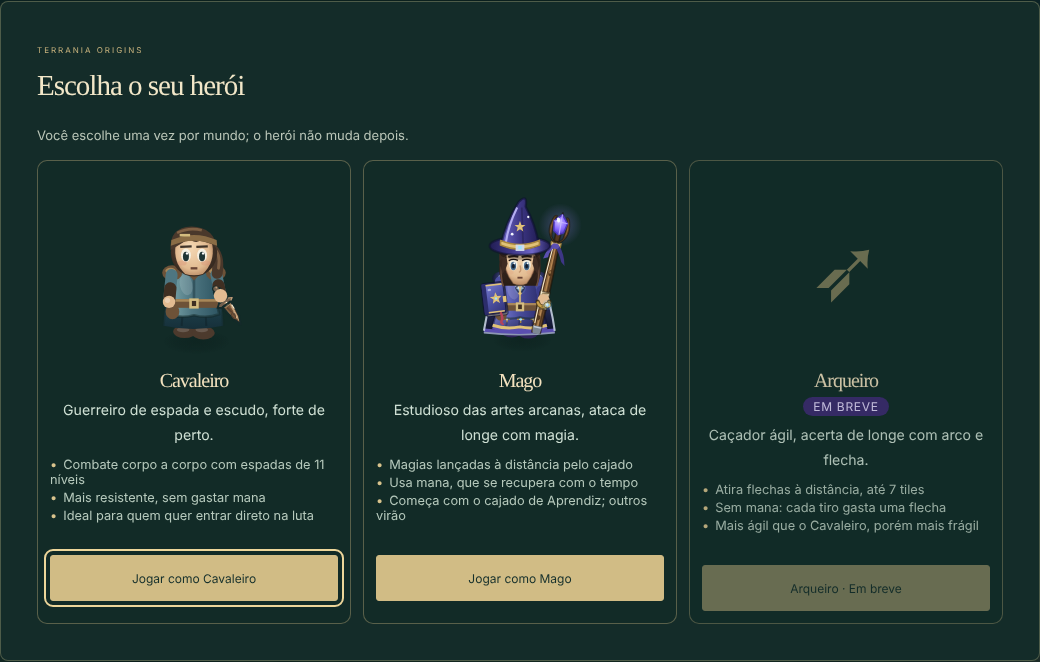
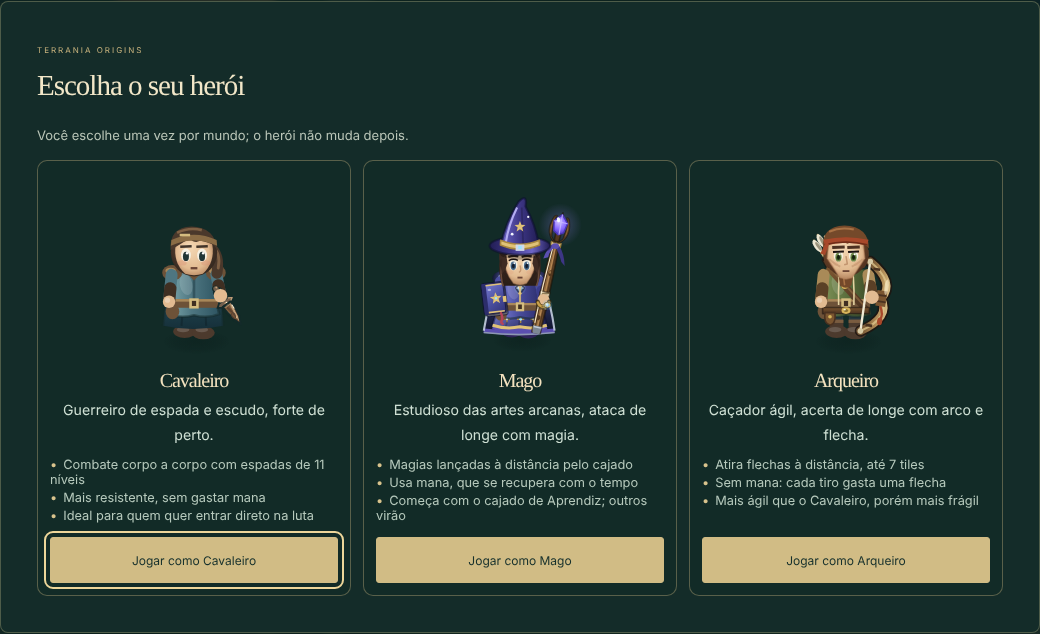
Arqueiro liberado na tela de escolha (ADR 0119)
ARCHER.playable = true: o cartão deixa de ser "Em breve" e o mundo novo pode
nascer de Arqueiro (85 de vida, sem mana, Arco de Caça, 30 flechas de junco).
Botões dos três cartões alinhados embaixo. Testes: hero-select e archer-class
(unitários), hero-select (escolher o Arqueiro) e archer-shot (tiro de verdade
num monstro, aljava gasta) no navegador, desktop e Android.

Claude-Session: https://claude.ai/code/session_018xWjVnpYfkzYhWLmKVn5DW

diff --git a/tests/browser/hero-select.spec.ts b/tests/browser/hero-select.spec.ts
@@ -12,7 +12,7 @@ const save = (extra: Record<string, unknown> = {}) => JSON.stringify({ mapVersio
 type Saved = { seed: number; heroClass?: string };
 const readSave = (page: import("@playwright/test").Page) => page.evaluate((key) => { const raw = localStorage.getItem(key); return raw ? JSON.parse(raw) as Saved : null; }, KEY);
 
-test("jogador novo: a tela de escolha abre com os dois heróis liberados e o Arqueiro bloqueado, Esc não fecha e escolher o Cavaleiro começa e salva (desktop/Android)", async ({ page }, info) => {
+test("jogador novo: a tela de escolha abre com os três heróis liberados, Esc não fecha e escolher o Cavaleiro começa e salva (desktop/Android)", async ({ page }, info) => {
   const errors: string[] = [];
   page.on("pageerror", error => errors.push(error.message));
   await page.addInitScript(() => localStorage.setItem("terrania-preferences-v1", JSON.stringify({ zoom: 1, effects: false, cameraMotion: false })));
@@ -25,10 +25,10 @@ test("jogador novo: a tela de escolha abre com os dois heróis liberados e o Arq
   await expect(dialog.locator("[data-hero=mage] .hero-card-badge")).toHaveCount(0);
   await expect(dialog.locator("[data-hero=knight] canvas")).toBeVisible();
   await expect(dialog.locator("[data-hero=mage] canvas")).toBeVisible();
-  // O Arqueiro (ADR 0109) já aparece, mas bloqueado: "Em breve", botão desligado, e o corpo dele (ADR 0116) desenhado no cartão.
+  // O Arqueiro (ADR 0119) está liberado como os outros: botão ligado, sem faixa "Em breve" e o corpo dele (ADR 0116) desenhado no cartão.
   const archer = dialog.locator("#choose-archer");
-  await expect(archer).toBeDisabled(); await expect(archer).toContainText("Arqueiro · Em breve");
-  await expect(dialog.locator("[data-hero=archer] .hero-card-badge")).toHaveText("Em breve");
+  await expect(archer).toBeEnabled(); await expect(archer).toContainText("Jogar como Arqueiro");
+  await expect(dialog.locator("[data-hero=archer] .hero-card-badge")).toHaveCount(0);
   await expect(dialog.locator("[data-hero=archer] canvas")).toBeVisible();
   await expect(dialog.locator("[data-hero=archer]")).toContainText("até 7 tiles");
   await dialog.screenshot({ path: test.info().outputPath("escolha-heroi.png") });
@@ -108,6 +108,35 @@ test("jogador novo escolhe o Mago: o mundo começa de Mago, com barra de mana, c
   await expect(page.locator("canvas#game")).toBeVisible();
   await expect(page.getByRole("dialog", { name: "Escolha o seu herói" })).toBeHidden();
   await expect(page.locator("#manaText")).toBeVisible();
+  expect(errors).toEqual([]);
+});
+
+test("jogador novo escolhe o Arqueiro: o mundo começa de Arqueiro, sem mana, com 85 de vida, o Arco de Caça e a aljava de 30 flechas (desktop/Android)", async ({ page }, info) => {
+  const errors: string[] = [];
+  page.on("pageerror", error => errors.push(error.message));
+  await page.addInitScript(() => localStorage.setItem("terrania-preferences-v1", JSON.stringify({ zoom: 1, effects: false, cameraMotion: false })));
+  await page.goto("/jogar/?modo=solo");
+  const dialog = page.getByRole("dialog", { name: "Escolha o seu herói" });
+  await expect(dialog).toBeVisible();
+  const press = async (locator: ReturnType<typeof page.locator>): Promise<void> => { if (info.project.name === "android") await locator.tap(); else await locator.click(); };
+  await dialog.screenshot({ path: test.info().outputPath("escolha-do-heroi-com-arqueiro.png") });
+  await press(dialog.locator("#choose-archer"));
+  await expect(dialog).toBeHidden();
+  await expect.poll(async () => (await readSave(page))?.heroClass).toBe("archer");
+  await expect(page.locator("#hpText")).toHaveText("85 / 85");
+  await expect(page.locator("#manaText")).toHaveCount(0);
+  await press(page.locator("#gameMenuButton")); await press(page.locator("#inventoryButton"));
+  await expect(page.locator("#inventoryTitle")).toHaveText("Inventário do arqueiro");
+  if (info.project.name === "android") await press(page.locator("#inventoryTabEquipment"));
+  await expect(page.locator("[data-equipment-slot]")).toHaveCount(9);
+  await expect(page.locator("[data-equipment-slot=weapon] small")).toHaveText("Arco de Caça");
+  await expect(page.locator("[data-equipment-slot=ammo] small")).toHaveText("Flecha de Junco × 30");
+  await expect(page.locator(".preview-eyebrow")).toHaveText("SEU ARQUEIRO");
+  await page.locator("#inventoryDialog .dialog-x").click();
+  await page.reload();
+  await expect(page.locator("canvas#game")).toBeVisible();
+  await expect(page.getByRole("dialog", { name: "Escolha o seu herói" })).toBeHidden();
+  await expect(page.locator("#hpText")).toHaveText("85 / 85");
   expect(errors).toEqual([]);
 });
 

diff --git a/tests/browser/archer-shot.spec.ts b/tests/browser/archer-shot.spec.ts
@@ -1,0 +1,40 @@
+import { expect, test } from "@playwright/test";
+import { browserEncounter, SEED } from "../helpers/browserEncounter.ts";
+
+/**
+ * O tiro do Arqueiro no jogo de verdade (ADR 0119): com um mundo de Arqueiro salvo, escolher um monstro faz o herói atirar; cada tiro gasta
+ * uma flecha da aljava (que o save guarda), o monstro cai e a vida do herói é a de 85%. Sem erros na página.
+ */
+const KEY = "terrania-origins-v1";
+type Saved = { heroClass?: string; defeated?: string[]; inventory?: { quiver?: { counts: Record<string, number>; equipped: string } } };
+
+test("o Arqueiro atira num monstro de verdade: gasta flechas da aljava e derrota o alvo (desktop/Android)", async ({ page }, info) => {
+  const errors: string[] = [];
+  page.on("pageerror", error => errors.push(error.message));
+  const encounter = browserEncounter(true);
+  await page.addInitScript(({ hero, seed, key }) => {
+    localStorage.setItem(key, JSON.stringify({ mapVersion: 2, seed, x: hero.x, y: hero.y, hp: 85, kills: 0, defeated: [], experience: 0, heroClass: "archer" }));
+    localStorage.setItem("terrania-preferences-v1", JSON.stringify({ zoom: 1, effects: true, cameraMotion: false }));
+  }, { hero: encounter.hero, seed: SEED, key: KEY });
+  await page.setViewportSize({ width: info.project.name === "android" ? 390 : 1200, height: 844 });
+  await page.goto("/jogar/?modo=classico");
+  await expect(page.locator("canvas#game")).toBeVisible();
+  await expect(page.locator("#hpText")).toHaveText("85 / 85");
+  await expect(page.locator("#manaText")).toHaveCount(0);
+  const toggle = page.locator("#battleToggle");
+  if (await toggle.getAttribute("aria-expanded") !== "true") await toggle.click();
+  const row = page.locator(`.battle-entry[data-creature-id="${encounter.mob.id}"]`);
+  await expect(row).toBeVisible();
+  if (info.project.name === "android") await row.tap(); else await row.click();
+  await expect(page.locator("#classicTarget")).toContainText(/Slime/);
+  const read = () => page.evaluate(key => JSON.parse(localStorage.getItem(key) ?? "null") as Saved, KEY);
+  await expect.poll(async () => (await read())?.defeated?.includes(encounter.mob.id) === true, { timeout: 20000 }).toBe(true);
+  await page.waitForTimeout(500);
+  const saved = (await read())!;
+  expect(saved.heroClass).toBe("archer");
+  const left = saved.inventory?.quiver?.counts.reed ?? 30;
+  expect(left, "cada tiro gastou uma flecha de junco").toBeLessThan(30);
+  expect(left, "e a aljava não sumiu").toBeGreaterThan(0);
+  await page.locator("canvas#game").screenshot({ path: test.info().outputPath("arqueiro-atirando-no-jogo.png") });
+  expect(errors).toEqual([]);
+});

diff --git a/src/app/styles/hero-select.css b/src/app/styles/hero-select.css
@@ -2,16 +2,16 @@
 .hero-select { width: min(1040px, calc(100vw - 24px)); max-height: calc(100vh - 24px); overflow: auto; }
 .hero-select-hint { margin: 0 0 12px; color: #b6c9bc; font-size: .9rem; }
 .hero-select-grid { display: grid; grid-template-columns: repeat(3, minmax(0, 1fr)); gap: 12px; }
-.hero-card { display: grid; align-content: start; gap: 6px; padding: 12px; border: 1px solid #d3bb8560; border-radius: 10px; background: #112c27b0; text-align: center; }
+.hero-card { display: flex; flex-direction: column; gap: 6px; padding: 12px; border: 1px solid #d3bb8560; border-radius: 10px; background: #112c27b0; text-align: center; }
 .hero-card h2 { margin: 0; font-size: 1.25rem; color: #f3e2bf; }
 .hero-card p { margin: 0; font-size: .88rem; color: #cfe0d4; }
 .hero-card ul { margin: 4px 0 8px; padding: 0; list-style: none; display: grid; gap: 3px; font-size: .8rem; color: #b6c9bc; text-align: left; }
 .hero-card li::before { content: '•'; margin-right: 6px; color: #d9c38d; }
 .hero-card-art { display: grid; place-items: center; height: 190px; }
 .hero-card-art canvas { max-width: 100%; height: 190px; }
-.hero-card-badge { justify-self: center; padding: 2px 10px; border-radius: 999px; background: #3d2a73; color: #e6d8ff; font-size: .75rem; letter-spacing: .06em; text-transform: uppercase; }
+.hero-card-badge { align-self: center; padding: 2px 10px; border-radius: 999px; background: #3d2a73; color: #e6d8ff; font-size: .75rem; letter-spacing: .06em; text-transform: uppercase; }
 .hero-card.locked { opacity: .82; }
-.hero-card .primary-button { min-height: 46px; }
+.hero-card .primary-button { min-height: 46px; margin-top: auto; }
 .hero-card .primary-button:disabled { opacity: .55; cursor: not-allowed; }
 @media (max-width: 900px) {
   .hero-select-grid { grid-template-columns: repeat(2, minmax(0, 1fr)); }

diff --git a/tests/archer-class.test.ts b/tests/archer-class.test.ts
@@ -11,12 +11,12 @@ import { EQUIPMENT_SLOTS } from "../src/engine/character/Equipment.ts";
 /** O Arqueiro como vocação (ADR 0109, lote A1a): ficha, vida de 85%, 10% mais ágil, sem mana, e ainda bloqueado na tela de escolha. */
 const SEED = 842136;
 
-test("a ficha do Arqueiro: nome, sem mana, 85% de vida, 10% mais ágil, e ainda não jogável", () => {
+test("a ficha do Arqueiro: nome, sem mana, 85% de vida, 10% mais ágil, e jogável", () => {
   assert.deepEqual([ARCHER.id, ARCHER.name, ARCHER.usesMana, ARCHER.usesSwords, ARCHER.wearsArmor], ["archer", "Arqueiro", false, false, true]);
   assert.deepEqual([ARCHER_HP_PERCENT, ARCHER_SPEED_PERCENT], [85, 110]); assert.deepEqual([ARCHER.hpPercent, ARCHER.speedPercent], [85, 110]);
   assert.deepEqual([KNIGHT.speedPercent, MAGE.speedPercent], [100, 100], "só o Arqueiro é mais ágil");
   assert.deepEqual([1, 10, 100].map(ARCHER.maxMana).concat([1, 10, 100].map(ARCHER.manaPerSecond)), [0, 0, 0, 0, 0, 0], "nunca tem mana");
-  assert.equal(ARCHER.playable, false); assert.equal(isHeroClassPlayable("archer"), false); assert.strictEqual(heroClassSheet("archer"), ARCHER); assert.strictEqual(HERO_CLASSES.archer, ARCHER);
+  assert.equal(ARCHER.playable, true); assert.equal(isHeroClassPlayable("archer"), true); assert.strictEqual(heroClassSheet("archer"), ARCHER); assert.strictEqual(HERO_CLASSES.archer, ARCHER);
   assert.equal(normalizeHeroClass("archer"), "archer");
   assert.equal(regenerateMana(0, "archer", 10, 100), 0);
 });

diff --git a/src/engine/character/classes/archer.ts b/src/engine/character/classes/archer.ts
@@ -2,13 +2,13 @@ import type { HeroClassSheet } from "./sheet.ts";
 
 /**
  * O Arqueiro (ADR 0109): atirador sem mana, ágil e frágil. Números propostos em `docs/ARQUEIRO.md` (o dono ajusta aqui): 85% da vida do
- * Cavaleiro no mesmo nível e 10% mais rápido ao andar. Ainda não é jogável: a tela de escolha o mostra como "Em breve" até arco, flechas,
- * desenho e inventário ficarem prontos.
+ * Cavaleiro no mesmo nível e 10% mais rápido ao andar. Jogável desde a liberação (ADR 0119): arco, flechas, corpo, inventário e a Irmandade dos
+ * Arqueiros estão prontos; os outros dez arcos, as habilidades e as roupas vêm depois.
  */
 export const ARCHER_HP_PERCENT = 85;
 export const ARCHER_SPEED_PERCENT = 110;
 export const ARCHER: HeroClassSheet = {
-  id: "archer", name: "Arqueiro", playable: false, weapon: "bow", usesSwords: false, wearsArmor: true,
+  id: "archer", name: "Arqueiro", playable: true, weapon: "bow", usesSwords: false, wearsArmor: true,
   equipmentSlots: ["head", "neck", "ring", "chest", "weapon", "shield", "legs", "ammo", "feet"],
   slotLabels: { head: "Capuz", neck: "Colar", ring: "Anel", chest: "Gibão", weapon: "Arco", shield: "Luvas", legs: "Calça", ammo: "Flechas", feet: "Botas" },
   hpPercent: ARCHER_HP_PERCENT, speedPercent: ARCHER_SPEED_PERCENT, usesMana: false, maxMana: () => 0, manaPerSecond: () => 0,

diff --git a/tests/hero-select.test.ts b/tests/hero-select.test.ts
@@ -13,10 +13,10 @@ const SEED = 842136;
 const game = readFileSync("src/game/Game.ts", "utf8"), page = readFileSync("src/app/game-page.html", "utf8"), component = readFileSync("src/app/game-page.component.ts", "utf8"),
   hud = readFileSync("src/app/hud.service.ts", "utf8");
 
-test("quem pode ser escolhido: o Cavaleiro e o Mago; o Arqueiro aparece bloqueado (ADR 0109)", () => {
-  assert.equal(KNIGHT.playable, true); assert.equal(MAGE.playable, true);
-  assert.deepEqual(HERO_CLASS_IDS.map(isHeroClassPlayable), [true, true, false]);
-  assert.deepEqual(HERO_CLASS_IDS.filter(id => heroClassSheet(id).playable), ["knight", "mage"]);
+test("quem pode ser escolhido: os três: Cavaleiro, Mago e Arqueiro (ADR 0119)", () => {
+  assert.equal(KNIGHT.playable, true); assert.equal(MAGE.playable, true); assert.equal(HERO_CLASSES.archer.playable, true);
+  assert.deepEqual(HERO_CLASS_IDS.map(isHeroClassPlayable), [true, true, true]);
+  assert.deepEqual(HERO_CLASS_IDS.filter(id => heroClassSheet(id).playable), ["knight", "mage", "archer"]);
   assert.equal(HERO_CLASSES.mage.playable, true);
   assert.equal(isHeroClassPlayable("lua" as never), false, "o que não é vocação não é jogável");
 });

diff --git a/docs/ARQUEIRO.md b/docs/ARQUEIRO.md
@@ -1,9 +1,9 @@
 # A vocação Arqueiro
 
-**Proposta** do dono (2026-11-26), no mesmo molde das outras vocações. **Todos os números, nomes e escolhas abaixo são propostas que o dono ajusta.** **Andamento:** as regras da Flecha de Ferro, da compra por pacotes e da escolha da flecha já existem no motor ([ADR 0117](adr/0117-arqueiro-a3a-flechas-e-compra.md), A3a); o Arqueiro segura o arco e atira com a pose completa ([ADR 0116](adr/0116-arqueiro-a2b-arco-e-pose.md), A2b); o corpo do Arqueiro já está desenhado ([ADR 0114](adr/0114-arqueiro-a2a-corpo.md), A2a); o inventário do Arqueiro já mostra o arco e a aljava ([ADR 0113](adr/0113-arqueiro-a1c-inventario.md), A1c-3); a flecha voa até o alvo e mostra o impacto e o dano ([ADR 0112](adr/0112-arqueiro-a1c-a-flecha-que-voa.md), A1c-2); o tiro (gasta a flecha, fere o alvo escolhido a até 7 tiles, avisa "Sem flechas") já funciona no motor ([ADR 0111](adr/0111-arqueiro-a1c-o-tiro.md), A1c-1); o Arco de Caça, a flecha de junco e a aljava já existem no motor ([ADR 0110](adr/0110-arqueiro-a1b-arco-e-flechas.md), A1b); a ficha do Arqueiro (vida de 85%, 10% mais ágil, sem mana, espaços do inventário) já existe e a tela de escolha o mostra bloqueado, "Em breve" ([ADR 0109](adr/0109-arqueiro-a1a-vocacao.md), lote A1a). O resto abaixo ainda não está feito; este documento define o que será feito e em que ordem. O dono pediu: os arcos, as flechas que ele lança, as roupas e os itens, no mesmo padrão do Mago, e o uso do inventário.
+**Proposta** do dono (2026-11-26), no mesmo molde das outras vocações. **Todos os números, nomes e escolhas abaixo são propostas que o dono ajusta.** **Andamento:** o Arqueiro já é jogável na tela de escolha ([ADR 0119](adr/0119-arqueiro-liberado.md)) e a Irmandade dos Arqueiros vende as flechas ([ADR 0118](adr/0118-arqueiro-a3b-irmandade-dos-arqueiros.md), A3b); as regras da Flecha de Ferro, da compra por pacotes e da escolha da flecha já existem no motor ([ADR 0117](adr/0117-arqueiro-a3a-flechas-e-compra.md), A3a); o Arqueiro segura o arco e atira com a pose completa ([ADR 0116](adr/0116-arqueiro-a2b-arco-e-pose.md), A2b); o corpo do Arqueiro já está desenhado ([ADR 0114](adr/0114-arqueiro-a2a-corpo.md), A2a); o inventário do Arqueiro já mostra o arco e a aljava ([ADR 0113](adr/0113-arqueiro-a1c-inventario.md), A1c-3); a flecha voa até o alvo e mostra o impacto e o dano ([ADR 0112](adr/0112-arqueiro-a1c-a-flecha-que-voa.md), A1c-2); o tiro (gasta a flecha, fere o alvo escolhido a até 7 tiles, avisa "Sem flechas") já funciona no motor ([ADR 0111](adr/0111-arqueiro-a1c-o-tiro.md), A1c-1); o Arco de Caça, a flecha de junco e a aljava já existem no motor ([ADR 0110](adr/0110-arqueiro-a1b-arco-e-flechas.md), A1b); a ficha do Arqueiro (vida de 85%, 10% mais ágil, sem mana, espaços do inventário) já existe e a tela de escolha o mostrou bloqueado até a liberação ([ADR 0109](adr/0109-arqueiro-a1a-vocacao.md), lote A1a). O resto abaixo ainda não está feito; este documento define o que será feito e em que ordem. O dono pediu: os arcos, as flechas que ele lança, as roupas e os itens, no mesmo padrão do Mago, e o uso do inventário.
 
 ## Onde estamos hoje
-- Existem duas vocações jogáveis, o **Cavaleiro** e o **Mago**. O Arqueiro só aparece como a **Irmandade dos Arqueiros**, um prédio da capital, e como o espaço **Flechas** do inventário do Cavaleiro (hoje só enfeite: "Flechas de junco", sem efeito).
+- (Histórico, antes do ADR 0119:) existiam duas vocações jogáveis, o **Cavaleiro** e o **Mago**. O Arqueiro só aparece como a **Irmandade dos Arqueiros**, um prédio da capital, e como o espaço **Flechas** do inventário do Cavaleiro (hoje só enfeite: "Flechas de junco", sem efeito).
 - O caminho está pronto: ficha da vocação, inventário com espaços e nomes próprios, equipamento por vocação com nível mínimo, aparência por vocação, tela de escolha, combate à distância com alvo (o do Mago).
 
 ## O papel
@@ -53,7 +53,7 @@ Espaços do Arqueiro: capuz, colar, anel, gibão, **arco**, **luvas** no lugar d
 ## Os lotes (proposta)
 1. **A1:** a vocação (ficha, vida, escolha do herói, inventário, save), o **primeiro arco** e as flechas de junco, com o disparo à distância na superfície e na caverna. Em fatias: **A1a (feita, ADR 0109)** ficha, vida, agilidade e cartão bloqueado; **A1b (feita, ADR 0110)** Arco de Caça, flecha de junco e aljava (30 flechas) no motor, e o perfil de combate à distância; **A1c** disparo, projétil e inventário, e a liberação na tela de escolha, em três: **A1c-1 (feita, ADR 0111)** o tiro no motor, na superfície e na caverna, com o aviso "Sem flechas"; **A1c-2 (feita, ADR 0112)** a flecha que voa e o impacto (a pose de atirar fica no A2, com o corpo); **A1c-3 (feita, ADR 0113)** o inventário do Arqueiro (arco, aljava e lojas); a liberação na tela de escolha passou para depois do A2, porque sem o corpo e a pose dele o herói ainda pareceria o Cavaleiro.
 2. **A2:** o desenho do personagem e a animação de atirar. Em duas: **A2a (feita, ADR 0114)** o corpo (cabeça, gibão, aljava); **A2b (feita, ADR 0116)** o arco nas mãos e a pose de atirar; a liberação na tela de escolha passou para depois do A3, porque só com as 30 flechas iniciais e sem como comprar mais o Arqueiro ficaria sem munição.
-3. **A3:** os tipos de flecha, a compra na Irmandade dos Arqueiros e a munição no inventário. Em duas: **A3a (feita, ADR 0117)** a flecha de ferro (+3 de dano, 3 de ouro; a de junco, 1 de ouro), a compra por pacotes de 10 e a escolha da flecha, no motor; **A3b (feita, ADR 0118)** a Irmandade na capital (porta, interior, Mestre Orlan e a tela de compra); falta a liberação do Arqueiro.
+3. **A3:** os tipos de flecha, a compra na Irmandade dos Arqueiros e a munição no inventário. Em duas: **A3a (feita, ADR 0117)** a flecha de ferro (+3 de dano, 3 de ouro; a de junco, 1 de ouro), a compra por pacotes de 10 e a escolha da flecha, no motor; **A3b (feita, ADR 0118)** a Irmandade na capital (porta, interior, Mestre Orlan e a tela de compra); **liberação (feita, ADR 0119):** o Arqueiro já aparece jogável na tela de escolha.
 4. **A4:** os dez arcos restantes, em lotes de três.
 5. **A5:** as habilidades, uma ou duas por lote.
 6. **A6:** os onze conjuntos de roupa, três por lote.

diff --git a/docs/PENDENCIAS.md b/docs/PENDENCIAS.md
@@ -22,7 +22,7 @@ Estado: **feito** · **em andamento** · **a fazer** · **espera o dono** (falta
 | Frente | Estado | O que falta | Detalhe |
 | --- | --- | --- | --- |
 | **Druida** | espera o dono | Antes do D1, o **sim** dele à arma: **bordão** (recomendado), garras e foice, ou totem. Depois D1 a D6: a vocação e o primeiro bordão; o desenho; os dez bordões; as sete magias especiais; os onze conjuntos de pele; as formas de lobo e urso | [DRUIDA.md](DRUIDA.md) |
-| **Arqueiro** | em andamento | **Feito:** ficha, vida, agilidade e cartão bloqueado (ADR 0109); Arco de Caça, flecha de junco e aljava (0110); o tiro na superfície e na caverna (0111); a flecha que voa e o impacto (0112); o inventário e as lojas (0113); o corpo do Arqueiro (A2a, 0114); o arco nas mãos e a pose de atirar (A2b, 0116). as regras da flecha de ferro, da compra e da escolha da flecha (A3a, 0117); a Irmandade dos Arqueiros na capital, com porta, salão, Mestre Orlan e tela de compra (A3b, 0118). **Falta:** **a liberação** na tela de escolha; A4 os dez arcos; A5 as habilidades; A6 os onze conjuntos de roupa | [ARQUEIRO.md](ARQUEIRO.md), [ADR 0109](adr/0109-arqueiro-a1a-vocacao.md), [ADR 0110](adr/0110-arqueiro-a1b-arco-e-flechas.md), [ADR 0111](adr/0111-arqueiro-a1c-o-tiro.md), [ADR 0112](adr/0112-arqueiro-a1c-a-flecha-que-voa.md), [ADR 0113](adr/0113-arqueiro-a1c-inventario.md), [ADR 0114](adr/0114-arqueiro-a2a-corpo.md), [ADR 0116](adr/0116-arqueiro-a2b-arco-e-pose.md), [ADR 0117](adr/0117-arqueiro-a3a-flechas-e-compra.md), [ADR 0118](adr/0118-arqueiro-a3b-irmandade-dos-arqueiros.md) |
+| **Arqueiro** | em andamento | **Feito:** ficha, vida, agilidade e cartão bloqueado (ADR 0109); Arco de Caça, flecha de junco e aljava (0110); o tiro na superfície e na caverna (0111); a flecha que voa e o impacto (0112); o inventário e as lojas (0113); o corpo do Arqueiro (A2a, 0114); o arco nas mãos e a pose de atirar (A2b, 0116). as regras da flecha de ferro, da compra e da escolha da flecha (A3a, 0117); a Irmandade dos Arqueiros na capital, com porta, salão, Mestre Orlan e tela de compra (A3b, 0118). e a **liberação** do Arqueiro na tela de escolha (0119). **Falta:** A4 os dez arcos; A5 as habilidades; A6 os onze conjuntos de roupa | [ARQUEIRO.md](ARQUEIRO.md), [ADR 0109](adr/0109-arqueiro-a1a-vocacao.md), [ADR 0110](adr/0110-arqueiro-a1b-arco-e-flechas.md), [ADR 0111](adr/0111-arqueiro-a1c-o-tiro.md), [ADR 0112](adr/0112-arqueiro-a1c-a-flecha-que-voa.md), [ADR 0113](adr/0113-arqueiro-a1c-inventario.md), [ADR 0114](adr/0114-arqueiro-a2a-corpo.md), [ADR 0116](adr/0116-arqueiro-a2b-arco-e-pose.md), [ADR 0117](adr/0117-arqueiro-a3a-flechas-e-compra.md), [ADR 0118](adr/0118-arqueiro-a3b-irmandade-dos-arqueiros.md), [ADR 0119](adr/0119-arqueiro-liberado.md) |
 | **Mago: magias especiais** (além do ataque do cajado) | a fazer | Definir em documento e implementar em lotes | [MAGO_CAJADOS.md](MAGO_CAJADOS.md) |
 | **Mago: roupas** | a fazer | Lote B2 (Rocha Viva), B3 (Marés), C (Brasa Rubra, Espinheiro, Geada Boreal), D (Sol Nascente, Lua Negra, Tempestade) e o conjunto do Astral | [MAGO_ROUPAS.md](MAGO_ROUPAS.md) |
 | **Mago: aparência** | a fazer | M2: barba e cabelo que envelhecem e o nível no desenho; M3: o corpo que se fortalece, rugas e a mensagem de nível | [MAGO_APARENCIA.md](MAGO_APARENCIA.md) |

diff --git a/docs/INDEX.md b/docs/INDEX.md
@@ -18,7 +18,7 @@ Este índice informa **onde procurar**. Estado active = módulo utilizado na arq
 | [Entrada e controles](indexes/input.md) | active | 4 | Normalização de teclado, joystick e toque; regras de gameplay pertencem à simulação. |
 | [Rede cliente: presença e catálogo](indexes/client-network.md) | active | 3 | Consultas HTTP do site: contador de quem está jogando e catálogo de itens. O jogo é solo e offline; não há conexão de jogo. |
 | [Persistência local](indexes/local-save.md) | active | 2 | Save no navegador, versão e compatibilidade; não é persistência autoritativa online. |
-| [QA e testes](indexes/quality.md) | active | 250 | Testes unitários e navegador desktop/Android; cenários de regressão e robôs de QA. |
+| [QA e testes](indexes/quality.md) | active | 251 | Testes unitários e navegador desktop/Android; cenários de regressão e robôs de QA. |
 | [Servidor Node atual](indexes/node-server.md) | active | 22 | Serviço HTTP: contador de quem está jogando, catálogo de itens (PostgreSQL) e saúde. Sem salas nem WebSocket; o jogo é solo e offline. |
 | [Motor Go autoritativo em validação](indexes/go-engine.md) | experimental | 24 | Implementação Go de regras (laboratório, não espelha o TypeScript); substituição do backend ativo requer decisão e validação separadas. |
 | [Executáveis e presença Go](indexes/go-runtime.md) | experimental | 23 | Worker, gateway, laboratório de capacidade, presença e scripts de medição. |
@@ -26,6 +26,6 @@ Este índice informa **onde procurar**. Estado active = módulo utilizado na arq
 | [Módulo Rust espacial e entidades](indexes/rust-spatial.md) | experimental | 10 | Kernel Rust e FFI opt-in; não é servidor de rede. |
 | [Scripts, automação e CI](indexes/tooling.md) | active | 29 | Build, verificação, testes automatizados, deploys e índice; operações de produção são fluxos distintos. |
 
-**Outros arquivos:** [documentos, configurações e arquivos de entrada](indexes/_outros.md) (244).
+**Outros arquivos:** [documentos, configurações e arquivos de entrada](indexes/_outros.md) (245).
 
 Para regras de alteração, veja [AGENTS.md](../AGENTS.md), [manutenção](MANUTENCAO.md) e [ADR 0001](adr/0001-catalogo-e-fronteiras.md).

diff --git a/docs/adr/0119-arqueiro-liberado.md b/docs/adr/0119-arqueiro-liberado.md
@@ -1,0 +1,14 @@
+# ADR 0119 — O Arqueiro é liberado na tela de escolha
+
+**Estado:** entregue em 2026-11-28, décima fatia do Arqueiro de [ARQUEIRO.md](../ARQUEIRO.md). Com a Irmandade dos Arqueiros funcionando ([ADR 0118](0118-arqueiro-a3b-irmandade-dos-arqueiros.md)), o Arqueiro tem tudo o que um herói precisa para começar e jogar: ficha, arco e flechas, tiro na superfície e na caverna, corpo desenhado, inventário próprio e o lugar onde repor a munição.
+
+## O que mudou
+- **`ARCHER.playable = true`** (`classes/archer.ts`): o cartão deixa de ser "Em breve", o botão "Jogar como Arqueiro" liga e o mundo novo pode nascer de Arqueiro (85 de vida, sem mana, Arco de Caça e 30 flechas de junco). O mecanismo "Em breve" continua na tela para a próxima vocação (o Druida).
+- **A tela de escolha:** os botões dos três cartões agora ficam alinhados embaixo (o cartão é uma coluna e o botão empurra para o fim), porque as listas de características têm tamanhos diferentes.
+- **Fica para depois (de propósito):** os outros dez arcos (A4), as habilidades (A5) e os onze conjuntos de roupa (A6). Até lá o Arqueiro joga com o Arco de Caça e as duas flechas à venda.
+
+## Testes
+Unitários: `hero-select` (as três vocações jogáveis, na ordem do catálogo) e `archer-class` (a ficha é jogável). Navegador (desktop e Android): `hero-select` (os três botões ligados e sem a faixa "Em breve"; **novo teste:** escolher o Arqueiro começa o mundo de Arqueiro, com 85 de vida, sem mana, nove espaços, Arco de Caça, aljava de 30 flechas, e recarregar mantém) e **`archer-shot` (novo):** com um mundo de Arqueiro, escolher um monstro faz o herói atirar, a aljava gasta flechas (no save) e o alvo cai, sem erros na página. **Mutação:** trocar `playable` para `false` derruba os testes (2 falhas).
+
+## O que vem depois
+A4 (os dez arcos restantes, um por arquivo), A5 (as habilidades) e A6 (os onze conjuntos de roupa com capuz).

diff --git a/docs/indexes/quality.md b/docs/indexes/quality.md
@@ -15,7 +15,7 @@ Testes unitários e navegador desktop/Android; cenários de regressão e robôs 
 - [`tests/browser/mounts.spec.ts`](../../tests/browser/mounts.spec.ts)
 - [`tests/mount-quests.test.ts`](../../tests/mount-quests.test.ts)
 
-## Todos os arquivos deste módulo (250)
+## Todos os arquivos deste módulo (251)
 
 - [`src/qa/QaBot.ts`](../../src/qa/QaBot.ts)
 - [`src/qa/QaCaves.ts`](../../src/qa/QaCaves.ts)
@@ -39,6 +39,7 @@ Testes unitários e navegador desktop/Android; cenários de regressão e robôs 
 - [`tests/bestiary-audit.test.ts`](../../tests/bestiary-audit.test.ts)
 - [`tests/browser/app.spec.ts`](../../tests/browser/app.spec.ts)
 - [`tests/browser/archer-inventory.spec.ts`](../../tests/browser/archer-inventory.spec.ts)
+- [`tests/browser/archer-shot.spec.ts`](../../tests/browser/archer-shot.spec.ts)
 - [`tests/browser/capital-academy.spec.ts`](../../tests/browser/capital-academy.spec.ts)
 - [`tests/browser/capital-archers.spec.ts`](../../tests/browser/capital-archers.spec.ts)
 - [`tests/browser/capital-bank.spec.ts`](../../tests/browser/capital-bank.spec.ts)

diff --git a/docs/indexes/_outros.md b/docs/indexes/_outros.md
@@ -180,6 +180,7 @@
 - [`docs/adr/0116-arqueiro-a2b-arco-e-pose.md`](../../docs/adr/0116-arqueiro-a2b-arco-e-pose.md)
 - [`docs/adr/0117-arqueiro-a3a-flechas-e-compra.md`](../../docs/adr/0117-arqueiro-a3a-flechas-e-compra.md)
 - [`docs/adr/0118-arqueiro-a3b-irmandade-dos-arqueiros.md`](../../docs/adr/0118-arqueiro-a3b-irmandade-dos-arqueiros.md)
+- [`docs/adr/0119-arqueiro-liberado.md`](../../docs/adr/0119-arqueiro-liberado.md)
 - [`docs/screenshots/academia-arcana-painel.png`](../../docs/screenshots/academia-arcana-painel.png)
 - [`docs/screenshots/academia-arcana-salao.png`](../../docs/screenshots/academia-arcana-salao.png)
 - [`docs/screenshots/arqueiro-atirando.png`](../../docs/screenshots/arqueiro-atirando.png)
